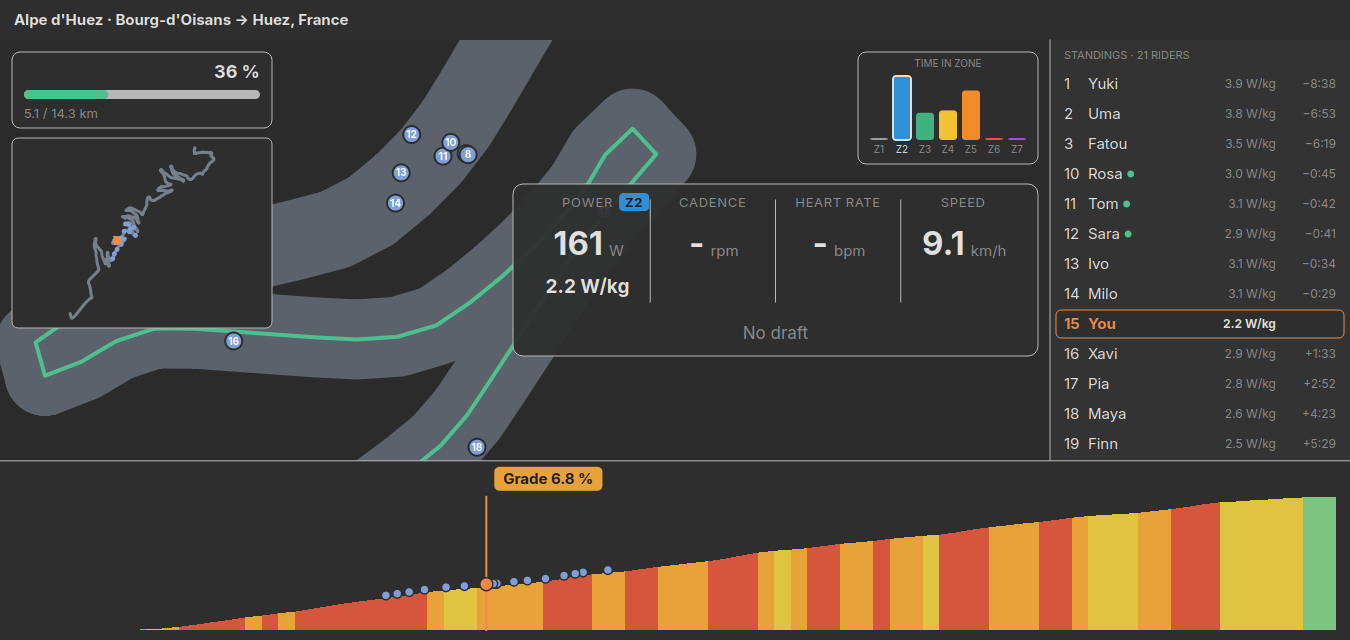
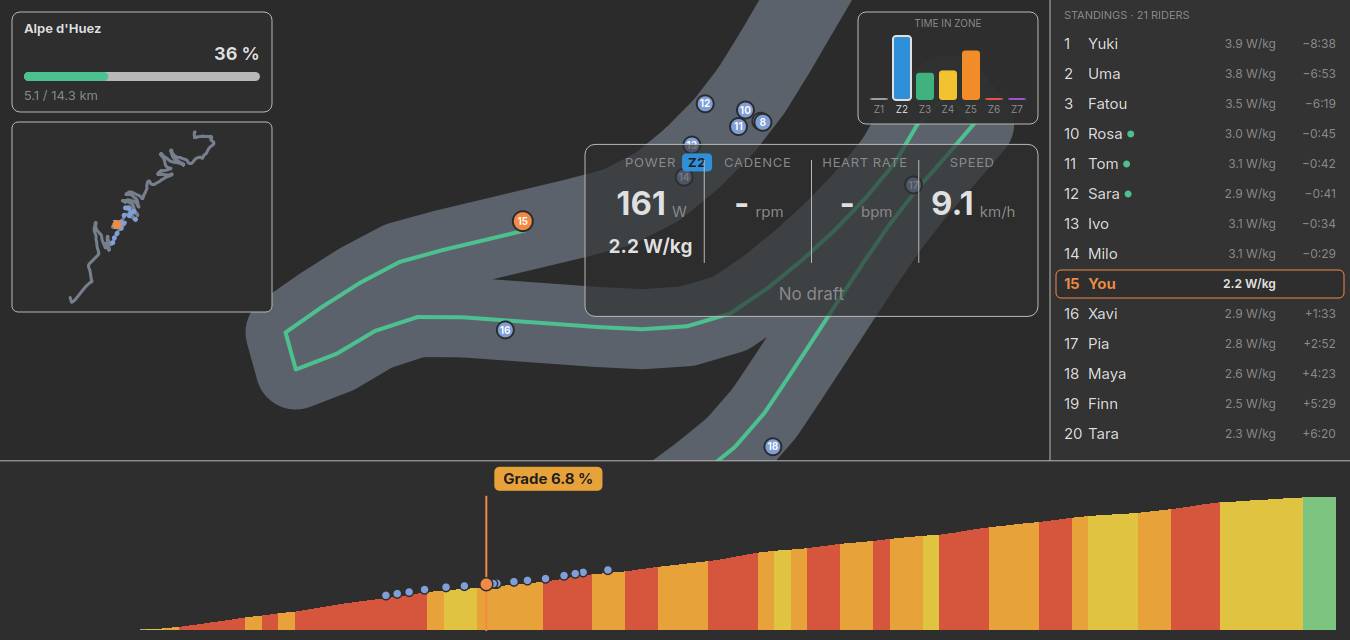
feat(courses): no top bar, card almost centred and see-through
The race view's top bar only held the course name: it is gone, the name
heads the lap panel, and the map, standings and right-hand panels start at
the top. The race card sits almost centred, just right of your dot, and is
see-through so riders passing under it stay visible.

Changed region(s): [[0.0, 0.0, 0.8711, 0.7188], [0.9022, 0.0625, 1.0, 0.7188], [0.7778, 0.0, 0.8711, 0.0312]]

diff --git a/src/race/raceview.cpp b/src/race/raceview.cpp
@@ -26,7 +26,6 @@ const QColor kGradeMid(0xe0, 0xc3, 0x41);
 const QColor kGradeHard(0xe8, 0xa2, 0x3a);
 const QColor kGradeSteep(0xd6, 0x55, 0x3d);
 
-constexpr double kTopBarHeight = 40.0;
 constexpr double kStandingsWidth = 300.0;
 constexpr double kRowHeight = 30.0;
 constexpr double kNowCardWidth = 600.0;
@@ -149,15 +148,13 @@ void RaceView::paintEvent(QPaintEvent *)
 
     const QRectF all = rect();
     const double profileHeight = std::clamp(all.height() * 0.28, 110.0, 180.0);
-    const QRectF topBar(all.left(), all.top(), all.width(), kTopBarHeight);
     const QRectF profile(all.left(), all.bottom() - profileHeight, all.width(), profileHeight);
-    const double middleTop = topBar.bottom();
+    const double middleTop = all.top();
     const double middleHeight = profile.top() - middleTop;
     const double standingsWidth = std::min(kStandingsWidth, all.width() * 0.38);
     const QRectF map(all.left(), middleTop, all.width() - standingsWidth, middleHeight);
     const QRectF standings(map.right(), middleTop, standingsWidth, middleHeight);
 
-    paintTopBar(painter, topBar);
     paintRoute(painter, map);
     paintProgressPanel(painter, map);
     paintNowPanel(painter, map);
@@ -167,22 +164,6 @@ void RaceView::paintEvent(QPaintEvent *)
     paintProfile(painter, profile);
     if (m_race->youFinished())
         paintFinish(painter, map);
-}
-
-void RaceView::paintTopBar(QPainter &painter, const QRectF &area) const
-{
-    const RaceCourse &course = m_race->course();
-    painter.fillRect(area, palette().color(QPalette::Base));
-    QFont titleFont = font();
-    titleFont.setBold(true);
-    titleFont.setPointSizeF(font().pointSizeF() * 1.1);
-    painter.setFont(titleFont);
-    painter.setPen(palette().color(QPalette::Text));
-    const QRectF titleArea = area.adjusted(14, 0, -area.width() * 0.45, 0);
-    painter.drawText(titleArea, Qt::AlignVCenter | Qt::AlignLeft,
-                     QFontMetrics(titleFont).elidedText(course.name() + QStringLiteral(" · ") + course.place(),
-                                                        Qt::ElideRight, static_cast<int>(titleArea.width())));
-
 }
 
 void RaceView::paintProgressPanel(QPainter &painter, const QRectF &mapArea) const
@@ -199,12 +180,19 @@ void RaceView::paintProgressPanel(QPainter &painter, const QRectF &mapArea) cons
     painter.setBrush(fill);
     painter.drawRoundedRect(panel, 8, 8);
 
+    QFont nameFont = font();
+    nameFont.setBold(true);
+    painter.setFont(nameFont);
+    painter.setPen(palette().color(QPalette::Text));
+    const QRectF nameRow(panel.left() + 12, panel.top() + 6, panel.width() - 24, 20);
+    painter.drawText(nameRow, Qt::AlignLeft | Qt::AlignVCenter,
+                     QFontMetrics(nameFont).elidedText(course.name(), Qt::ElideRight, static_cast<int>(nameRow.width())));
+
     QFont big = font();
     big.setBold(true);
     big.setPointSizeF(font().pointSizeF() * 1.35);
     painter.setFont(big);
-    painter.setPen(palette().color(QPalette::Text));
-    const QRectF top(panel.left() + 12, panel.top() + 6, panel.width() - 24, 26);
+    const QRectF top(panel.left() + 12, nameRow.bottom() + 2, panel.width() - 24, 26);
     if (course.isLoop()) {
         const int lap = std::min(course.laps(), static_cast<int>(done / course.lapDistanceM()) + 1);
         painter.drawText(top, Qt::AlignLeft | Qt::AlignVCenter, tr("Lap %1/%2").arg(lap).arg(course.laps()));
@@ -226,7 +214,7 @@ void RaceView::paintProgressPanel(QPainter &painter, const QRectF &mapArea) cons
 
 QRectF RaceView::progressPanelRect(const QRectF &mapArea) const
 {
-    return {mapArea.left() + 12, mapArea.top() + 12, 260, 76};
+    return {mapArea.left() + 12, mapArea.top() + 12, 260, 100};
 }
 
 void RaceView::updateDisplayOrder()
@@ -266,10 +254,7 @@ void RaceView::paintRoute(QPainter &painter, const QRectF &area) const
     const QRectF bounds = zoomBounds();
     painter.save();
     painter.setClipRect(area);
-    // Centre the road in the space left of the card, so the card never hides you.
-    const QRectF mapArea = area;
-    const QRectF roadArea(mapArea.left(), mapArea.top(),
-                          std::max(200.0, nowCardRect(mapArea).left() - 10 - mapArea.left()), mapArea.height());
+    const QRectF &roadArea = area;   // you are in the middle of the map
 
     QPainterPath road;
     for (int index = 0; index < course.points().size(); ++index) {
@@ -485,12 +470,15 @@ void RaceView::paintOverview(QPainter &painter, const QRectF &mapArea) const
 
 QRectF RaceView::nowCardRect(const QRectF &mapArea) const
 {
-    // Middle right of the map, next to the road, so a glance from your dot to
-    // your numbers is short. Kept below the panels in the top right corner.
-    const double width = std::min(kNowCardWidth, mapArea.width() * 0.5);
+    // Almost centred, just right of your dot (which sits in the middle of the
+    // map), so a glance from your dot to your numbers is short. See-through,
+    // so riders passing under it stay visible. Kept below the top-right panels.
+    constexpr double kRightOfYourDot = 60.0;
+    const double left = mapArea.center().x() + kRightOfYourDot;
+    const double width = std::min(kNowCardWidth, mapArea.right() - 12 - left);
     const double belowPanels = gearPanelRect(mapArea).bottom() + 10;
     const double top = std::max(mapArea.center().y() - kNowCardHeight / 2, belowPanels);
-    return {mapArea.right() - width - 12, std::min(top, mapArea.bottom() - kNowCardHeight - 8), width, kNowCardHeight};
+    return {left, std::min(top, mapArea.bottom() - kNowCardHeight - 8), width, kNowCardHeight};
 }
 
 void RaceView::setRedLineWattsPerKg(double wattsPerKg)
@@ -525,7 +513,7 @@ void RaceView::paintNowPanel(QPainter &painter, const QRectF &mapArea) const
     // changing number never pushes the others around.
     const QRectF card = nowCardRect(mapArea);
     QColor fill = palette().color(QPalette::Base);
-    fill.setAlpha(240);
+    fill.setAlpha(165);   // see-through: riders under the card stay visible
     painter.setPen(QPen(palette().color(QPalette::Mid), 1));
     painter.setBrush(fill);
     painter.drawRoundedRect(card, 10, 10);

diff --git a/src/race/raceview.h b/src/race/raceview.h
@@ -51,7 +51,6 @@ protected:
     void resizeEvent(QResizeEvent *event) override;
 
 private:
-    void paintTopBar(QPainter &painter, const QRectF &area) const;
     void paintRoute(QPainter &painter, const QRectF &area) const;
     void paintOverview(QPainter &painter, const QRectF &mapArea) const;
     void paintProgressPanel(QPainter &painter, const QRectF &mapArea) const;
